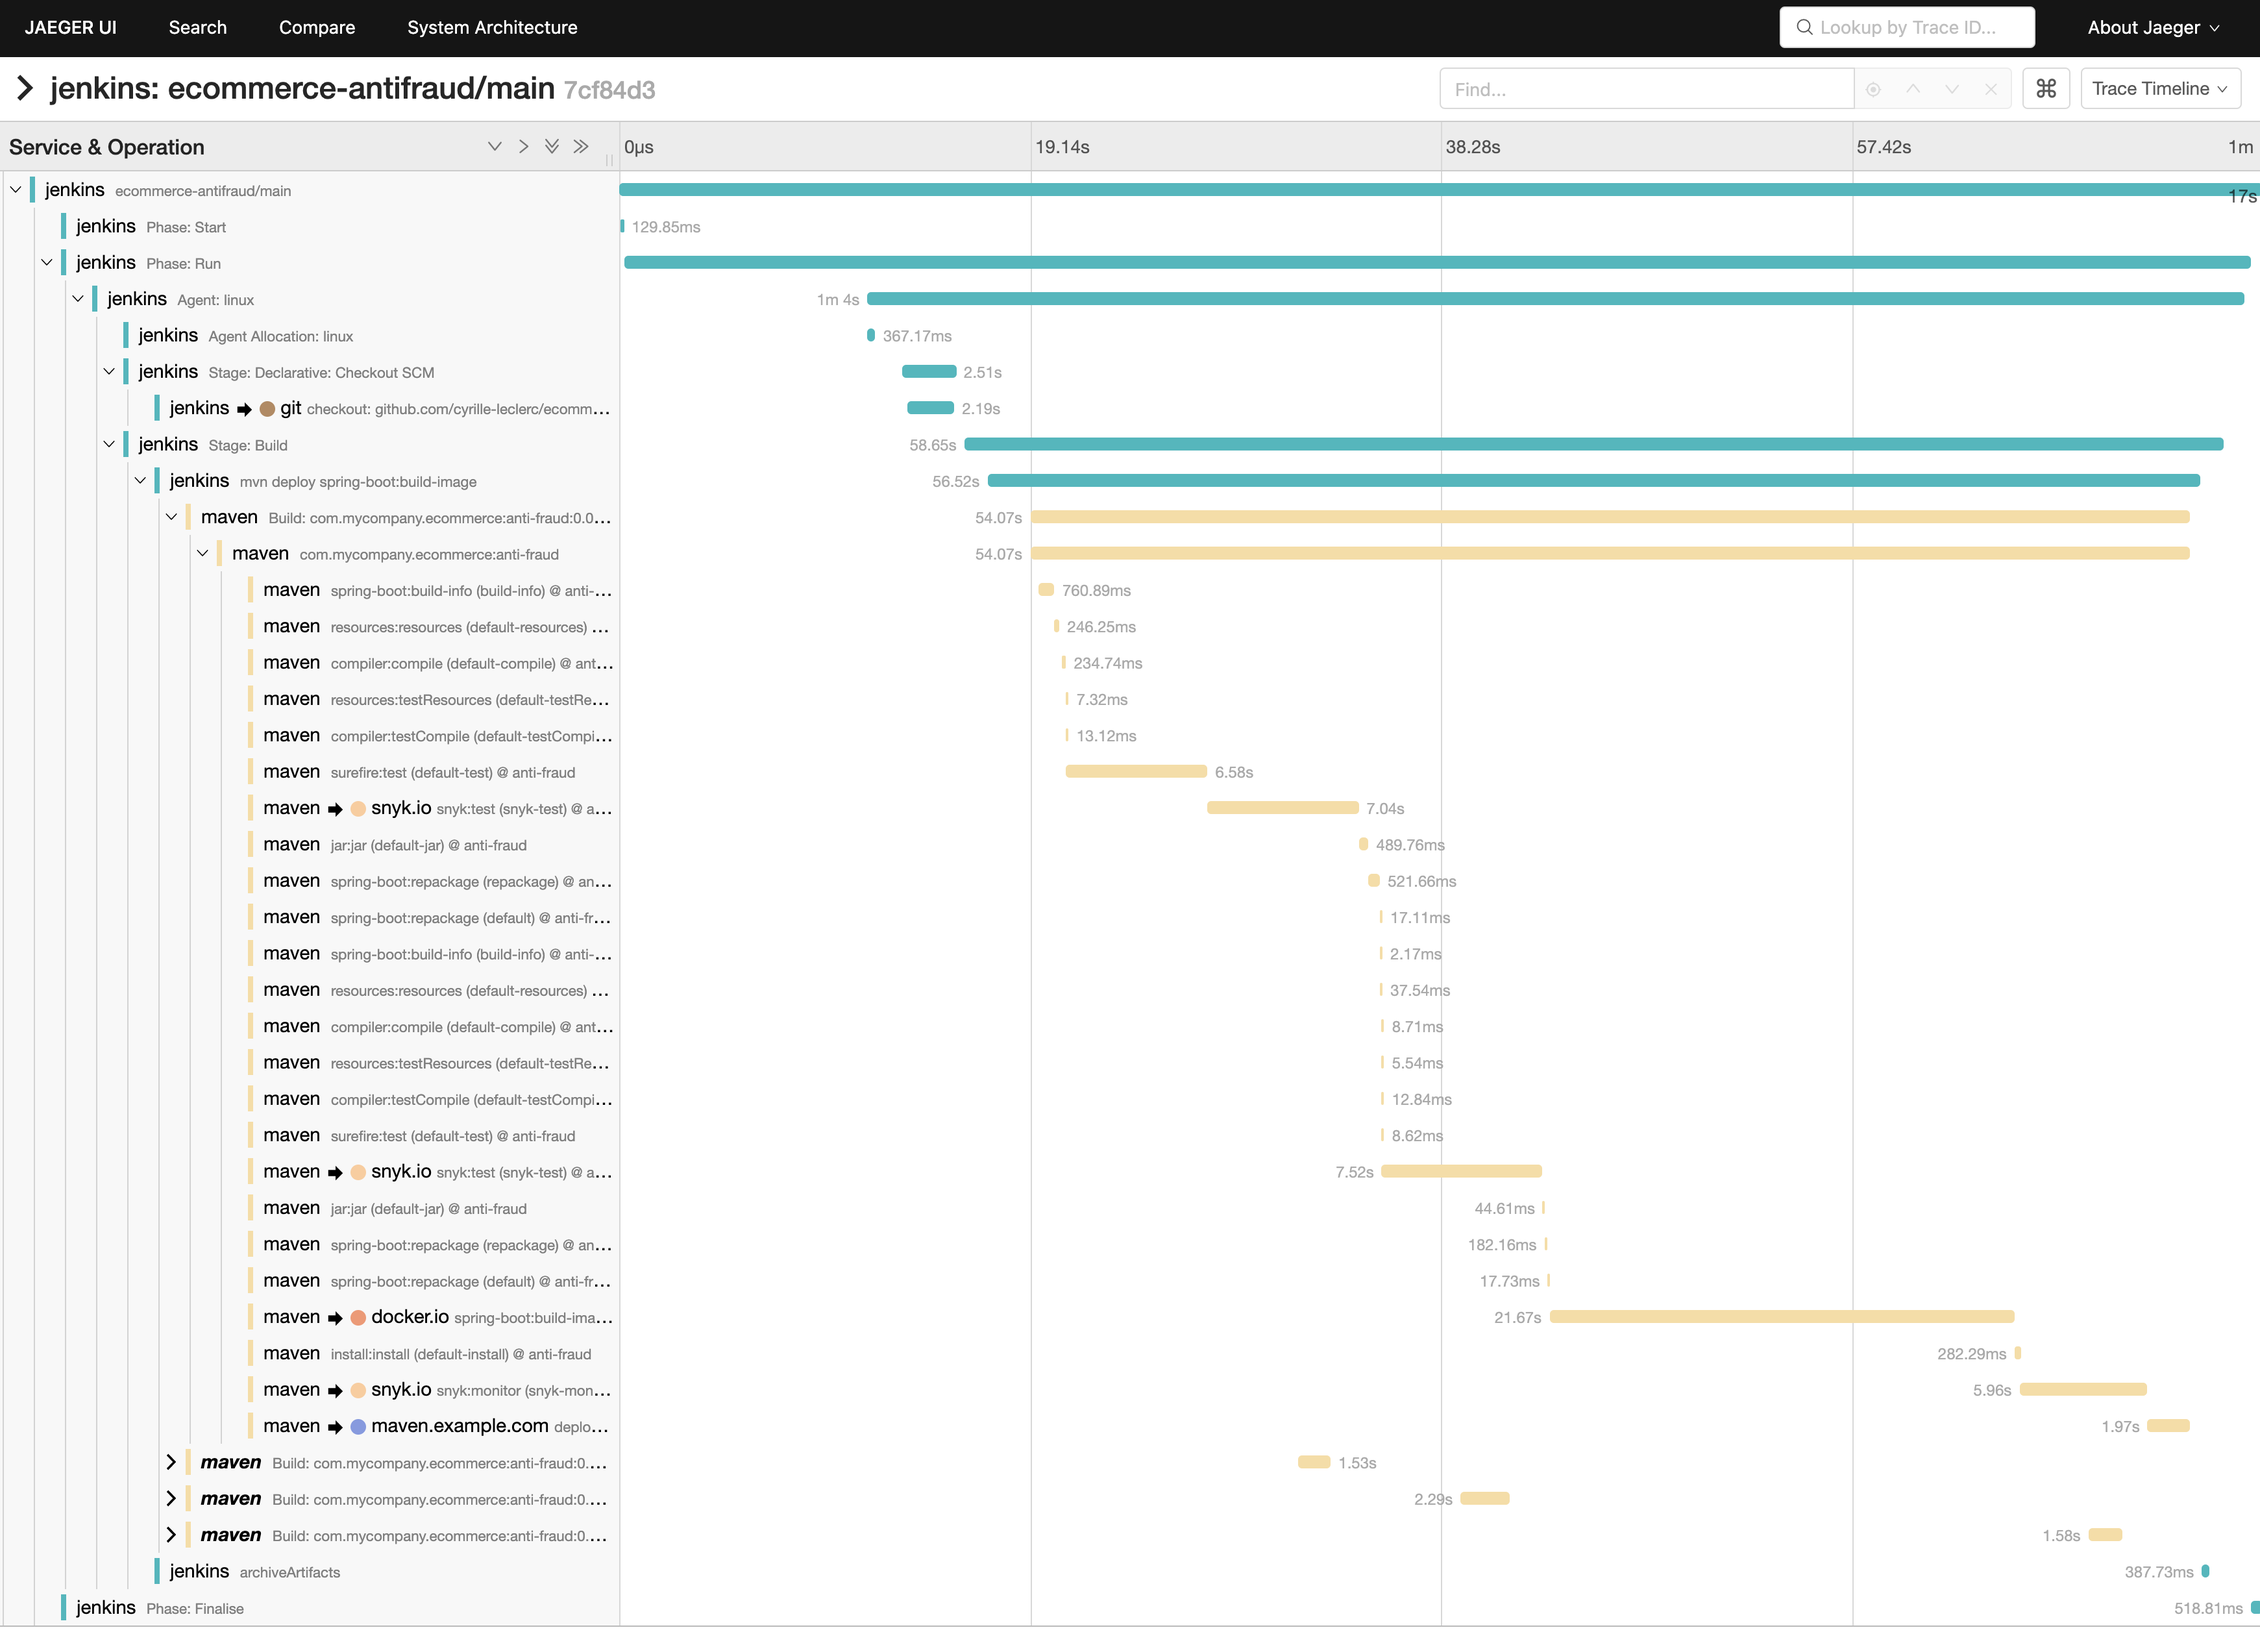
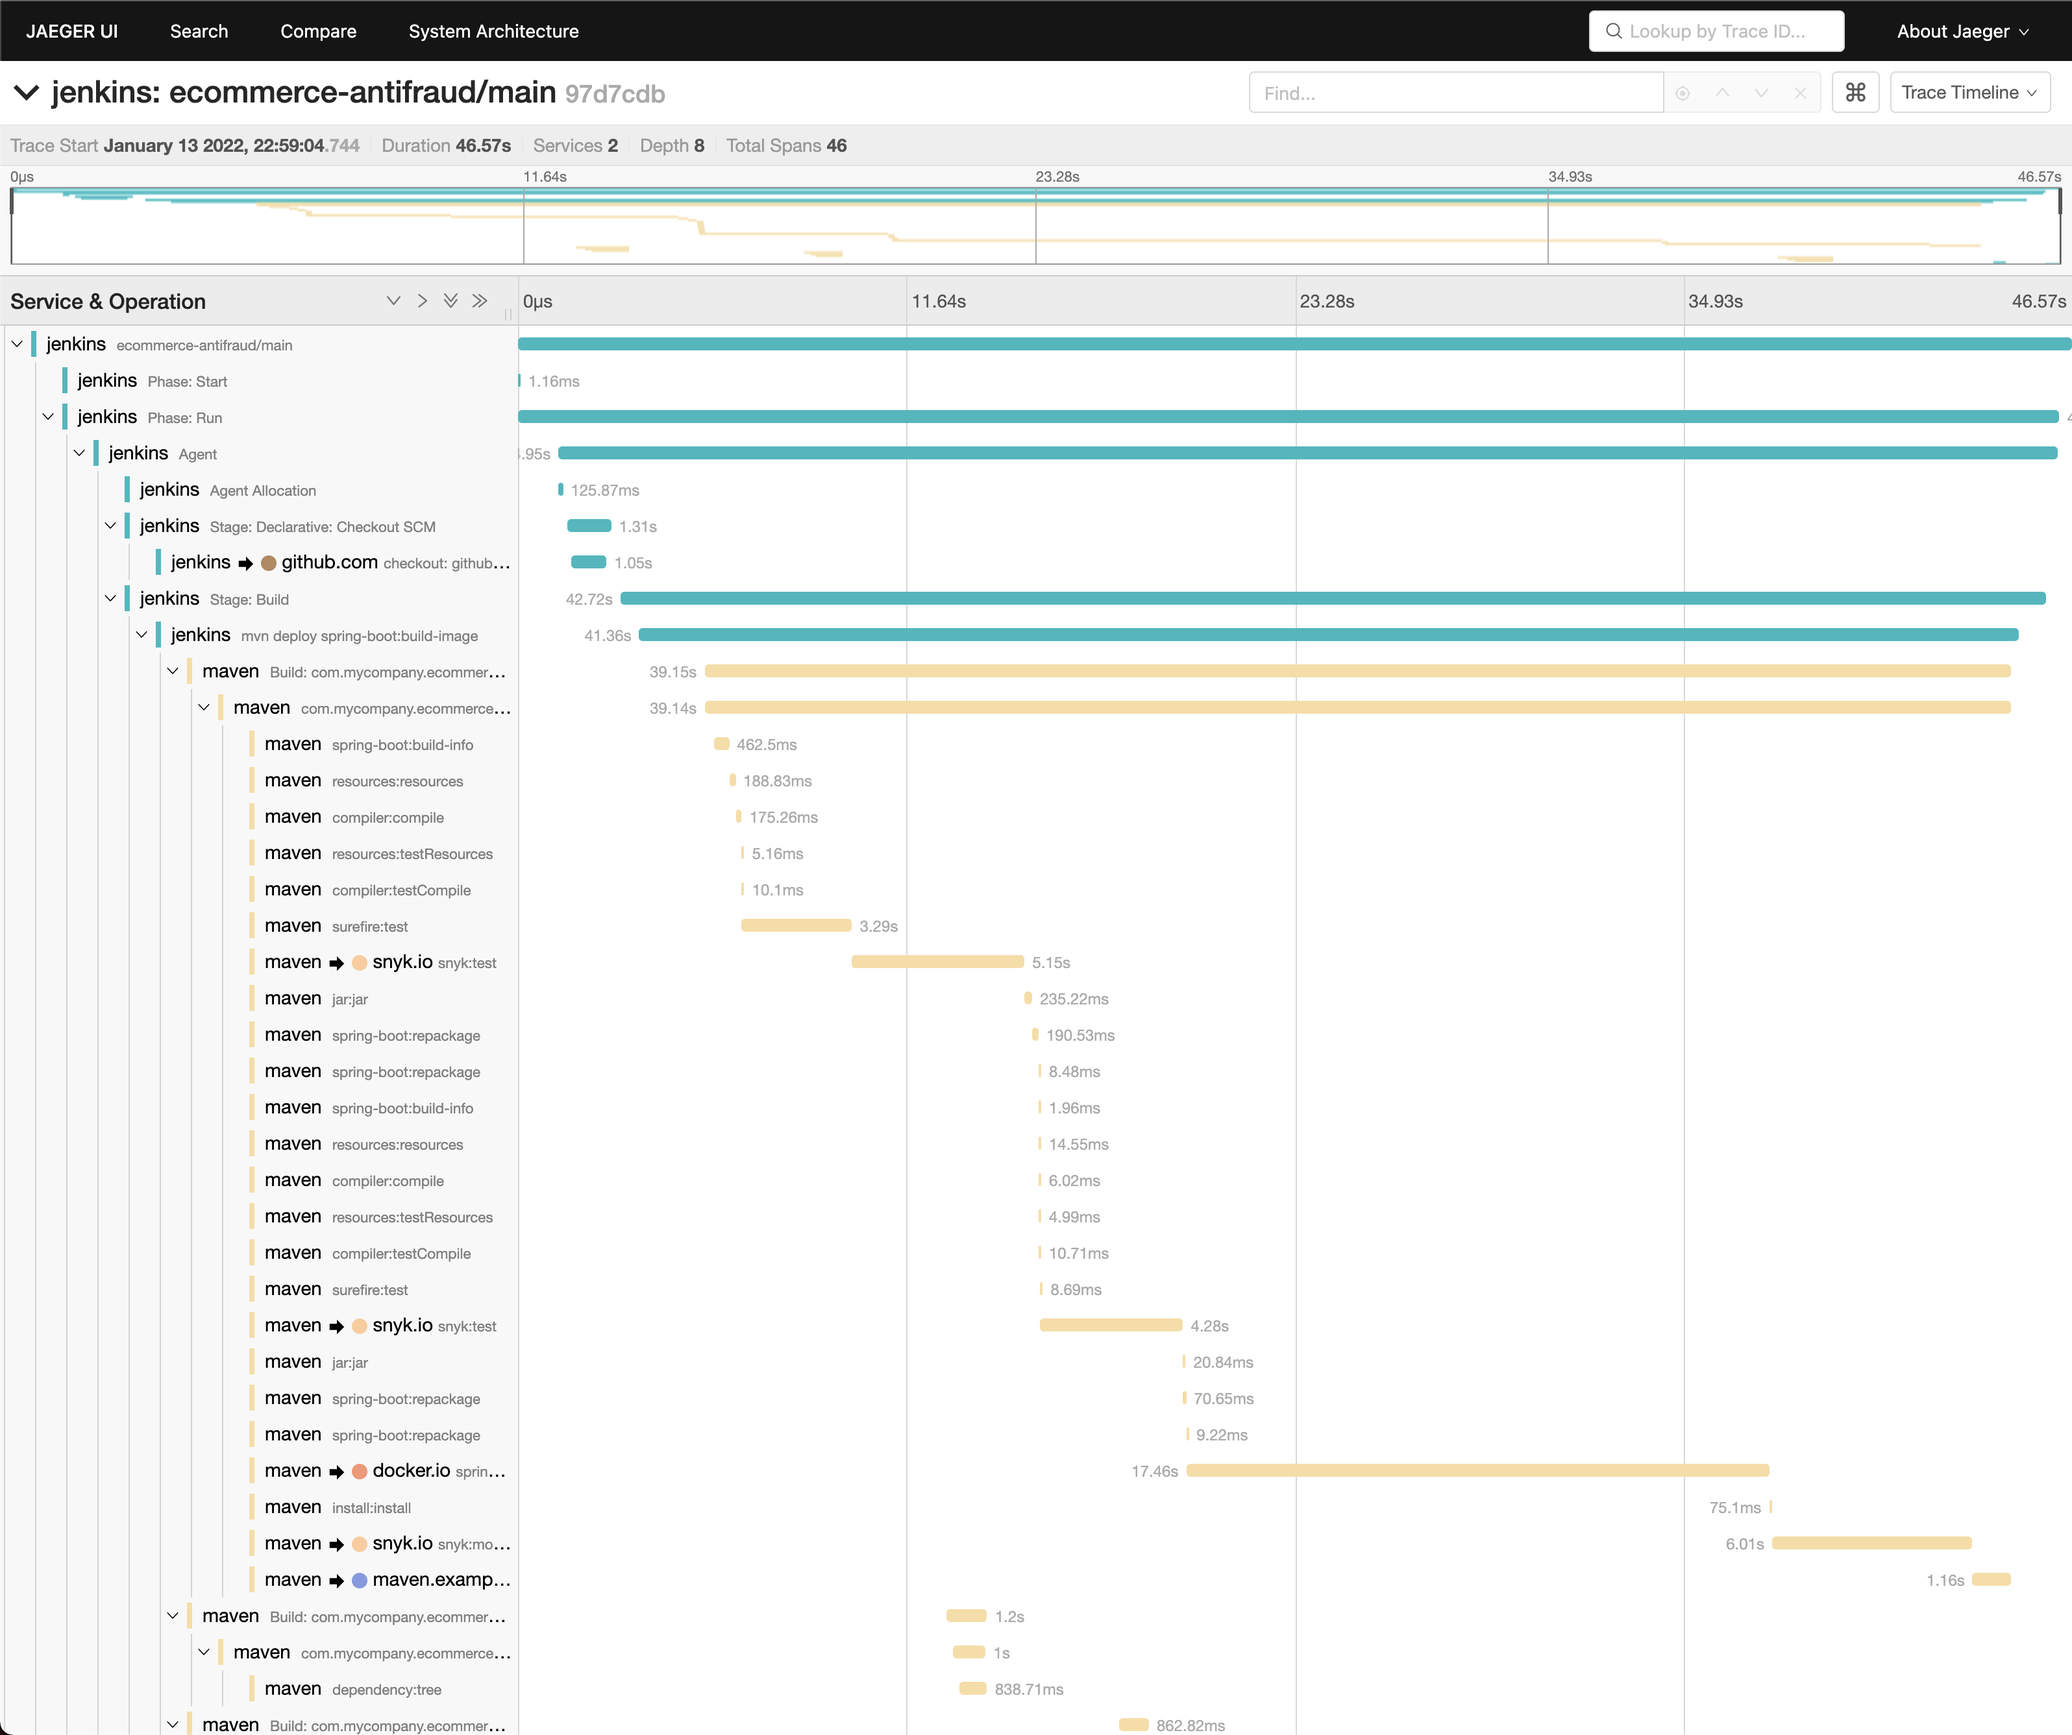
Reduce the cardinality of mojo span names

diff --git a/maven-extension/src/main/java/io/opentelemetry/maven/OtelExecutionListener.java b/maven-extension/src/main/java/io/opentelemetry/maven/OtelExecutionListener.java
@@ -192,12 +192,7 @@ public final class OtelExecutionListener extends AbstractExecutionListener {
     String spanName =
         MavenUtils.getPluginArtifactIdShortName(mojoExecution.getArtifactId())
             + ":"
-            + mojoExecution.getGoal()
-            + " ("
-            + mojoExecution.getExecutionId()
-            + ")"
-            + " @ "
-            + executionEvent.getProject().getArtifactId();
+            + mojoExecution.getGoal();
     logger.debug("OpenTelemetry: Start mojo execution: span {}", spanName);
     SpanBuilder spanBuilder =
         this.openTelemetrySdkService
